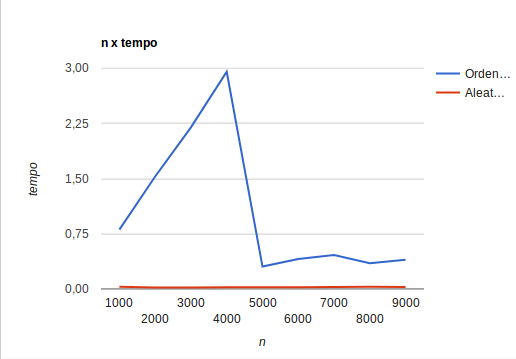
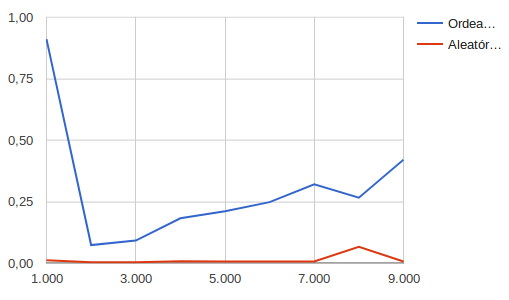
Atualização - Gerador de número aleatórios e gráficos novos

diff --git a/Pratica 1/Arvore_Binaria/src/arvore/Teste.java b/Pratica 1/Arvore_Binaria/src/arvore/Teste.java
@@ -5,35 +5,48 @@ import java.util.Random;
 	public static void main(String[] args){
 		Random rand=new Random();
 		System.out.println("Ordenados\n");
-		
+		double[] tempo = new double[10];
+		int[] comparacoes = new int[10];
 		int[] size = {1000, 2000, 3000, 4000, 5000, 6000, 7000, 8000, 9000};
 		for(int i=0; i< size.length; i++){
 			Arvore_binaria teste = new Arvore_binaria();
-			System.out.println("Tamanho: " + size[i]);
 			for(int y=0; y<size[i]; y++){
 				MeuItem chave = new MeuItem(y);
 				teste.insere(chave);
 			}
 			double time = System.nanoTime();
-			teste.pesquisa(new MeuItem(size[i]));
-			System.out.println("Tempo: "+(System.nanoTime() - time)/1000000);
-			System.out.println("Comparações: "+teste.comparacoes);
+			teste.pesquisa(new MeuItem(size[i]), true);
+			tempo[i]=(System.nanoTime() - time)/1000000;
+			comparacoes[i]=teste.comparacoes;
 		}
 		
-		System.out.println("Aleatórios\n");
+		System.out.println("Tempo:");
+		for(int i=0; i<size.length; i++)
+			System.out.print(tempo[i] + " ");
+		System.out.println("\nComparações:");
+		for(int i=0; i<size.length; i++)
+			System.out.print(comparacoes[i] + " ");
+		System.out.println("\nAleatórios\n");
 		
 		for(int i=0; i< size.length; i++){
 			Arvore_binaria teste = new Arvore_binaria();
-			System.out.println("Tamanho: " + size[i]);
-			
+			Object obj;
 			for(int y=0; y<size[i]; y++){
-				MeuItem chave = new MeuItem(rand.nextInt(10000));
-				teste.insere(chave);
+				do{
+					MeuItem chave = new MeuItem(rand.nextInt(9000));
+					obj = teste.insere(chave);
+				}while(obj==null);
 			}
 			double time = System.nanoTime();
-			teste.pesquisa(new MeuItem(10001));
-			System.out.println("Tempo: "+(System.nanoTime() - time)/1000000);
-			System.out.println("Comparações: "+teste.comparacoes);
+			teste.pesquisa(new MeuItem(10001), true);
+			tempo[i]=(System.nanoTime() - time)/1000000;
+			comparacoes[i]=teste.comparacoes;
 		}
+		System.out.println("Tempo:");
+		for(int i=0; i<size.length; i++)
+			System.out.print(tempo[i] + " ");
+		System.out.println("\nComparações:");
+		for(int i=0; i<size.length; i++)
+			System.out.print(comparacoes[i] + " ");
 	}
 }

diff --git a/Pratica 1/Arvore_Binaria/src/arvore/Arvore_binaria.java b/Pratica 1/Arvore_Binaria/src/arvore/Arvore_binaria.java
@@ -14,13 +14,13 @@ public class Arvore_binaria {
 	      central (p.dir);
 	    }
 	  }
-	  private Item pesquisa (Item reg, No p) {
+	  private Item pesquisa (Item reg, No p, boolean comp) {
 	    if (p == null){ 
 	    	return null; // Caso o registro procurado não seja achado
 	    }
-	    else if (reg.compara (p.reg) < 0){ comparacoes++; return pesquisa (reg, p.esq);} // Se o registro procurado for menor que o nó atual, desce na árvore pela esquerda
-	    else if (reg.compara (p.reg) > 0){ comparacoes+=2; return pesquisa (reg, p.dir);} // Se o registro procurado for maior que o nó atual, desce na árvore pela direita
-	    else { return p.reg;} // Se chegar nessa linha de execução é pq o registro procurado é igual ao registro do nó
+	    else if (reg.compara (p.reg) < 0){ if(comp) comparacoes++; return pesquisa (reg, p.esq, comp);} // Se o registro procurado for menor que o nó atual, desce na árvore pela esquerda
+	    else if (reg.compara (p.reg) > 0){ if(comp) comparacoes+=2; return pesquisa (reg, p.dir, comp);} // Se o registro procurado for maior que o nó atual, desce na árvore pela direita
+	    else { if(comp) comparacoes+=2; return p.reg;} // Se chegar nessa linha de execução é pq o registro procurado é igual ao registro do nó
 	  }
 	  
 	  private No insere (Item reg, No p) {
@@ -54,12 +54,16 @@ public class Arvore_binaria {
 	    this.raiz = null;
 	  }
 	  
-	  public Item pesquisa (Item reg) { // Pesquisa o registro passado
-	    return this.pesquisa (reg, this.raiz);
+	  public Item pesquisa (Item reg, boolean comp) { // Pesquisa o registro passado
+	    return this.pesquisa (reg, this.raiz, comp);
 	  }
 
-	  public void insere (Item reg) { // insere o registro passado
-	    this.raiz = this.insere (reg, this.raiz);
+	  public No insere (Item reg) { // insere o registro passado
+		  if(this.pesquisa(reg, false)==null){
+			  this.raiz = this.insere (reg, this.raiz);
+			  return this.raiz;
+		  }
+		  return null;
 	  }
 
 	  public void retira (Item reg) { // retira o registro passado

diff --git a/Pratica 2/arvore_sbb/src/arvore_sbb/ArvoreSBB.java b/Pratica 2/arvore_sbb/src/arvore_sbb/ArvoreSBB.java
@@ -21,11 +21,11 @@ public class ArvoreSBB {
 	      central (p.dir);
 	    }
 	  }
-	  private Item pesquisa (Item reg, No p) {
+	  private Item pesquisa (Item reg, No p, boolean comp) {
 	    if (p == null) return null; // Caso o registro procurado não seja achado
-	    else if (reg.compara (p.reg) < 0){comparacoes++; return pesquisa (reg, p.esq);} // Se o registro procurado for menor que o nó atual, desce na árvore pela esquerda
-	    else if (reg.compara (p.reg) > 0){comparacoes+=2; return pesquisa (reg, p.dir);} // Se o registro procurado for maior que o nó atual, desce na árvore pela direita
-	    else return p.reg; // Se chegar nessa linha de execução é pq o registro procurado é igual ao registro do nó
+	    else if (reg.compara (p.reg) < 0){if(comp) comparacoes++; return pesquisa (reg, p.esq, comp);} // Se o registro procurado for menor que o nó atual, desce na árvore pela esquerda
+	    else if (reg.compara (p.reg) > 0){if(comp) comparacoes+=2; return pesquisa (reg, p.dir, comp);} // Se o registro procurado for maior que o nó atual, desce na árvore pela direita
+	    else if(comp) comparacoes+=2; return p.reg; // Se chegar nessa linha de execução é pq o registro procurado é igual ao registro do nó
 	  }
 	  
 	  private No ee (No ap) { // Função é chamada caso haja a situação de tem duas esquerdas horizontais consecutivas
@@ -208,12 +208,16 @@ public class ArvoreSBB {
 	    this.propSBB = true;
 	  }
 	  
-	  public Item pesquisa (Item reg) {
-	    return this.pesquisa (reg, this.raiz);
+	  public Item pesquisa (Item reg, boolean comp) {
+	    return this.pesquisa (reg, this.raiz, comp);
 	  }
 
-	  public void insere (Item reg) {
-	    this.raiz = insere (reg, null, this.raiz, true);
+	  public No insere (Item reg) {
+		  if(this.pesquisa(reg, false)==null){
+			  this.raiz = insere (reg, null, this.raiz, true);
+			  return this.raiz;
+		  }
+		  return null;
 	  }
 
 	  public void retira (Item reg) {

diff --git a/Pratica 2/arvore_sbb/src/arvore_sbb/Teste.java b/Pratica 2/arvore_sbb/src/arvore_sbb/Teste.java
@@ -15,7 +15,7 @@ public class Teste {
 				teste.insere(chave);
 			}
 			double time = System.nanoTime();
-			teste.pesquisa(new MeuItem(size[i]));
+			teste.pesquisa(new MeuItem(size[i]), true);
 			tempo[i]=(System.nanoTime() - time)/1000000;
 			comparacoes[i]=teste.comparacoes;
 		}
@@ -30,13 +30,15 @@ public class Teste {
 		for(int i=0; i< size.length; i++){
 			ArvoreSBB teste = new ArvoreSBB();
 			//System.out.println("Tamanho: " + size[i]);
-			
+			Object obj;
 			for(int y=0; y<size[i]; y++){
+				do{
 				MeuItem chave = new MeuItem(rand.nextInt(10000));
-				teste.insere(chave);
+				obj = teste.insere(chave);
+				}while(obj==null);
 			}
 			double time = System.nanoTime();
-			teste.pesquisa(new MeuItem(10001));
+			teste.pesquisa(new MeuItem(10001), true);
 			tempo[i]=(System.nanoTime() - time)/1000000;
 			comparacoes[i]=teste.comparacoes;
 		}
@@ -46,6 +48,5 @@ public class Teste {
 		System.out.println("\nComparações:");
 		for(int i=0; i<size.length; i++)
 			System.out.print(comparacoes[i] + " ");
-		System.out.println("\nAleatórios\n");
 	}
 }
